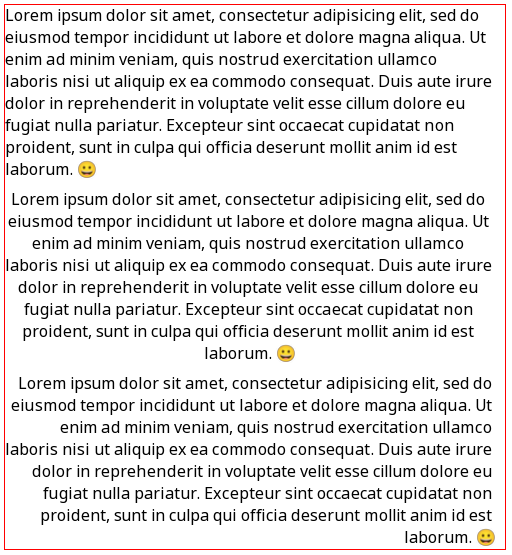
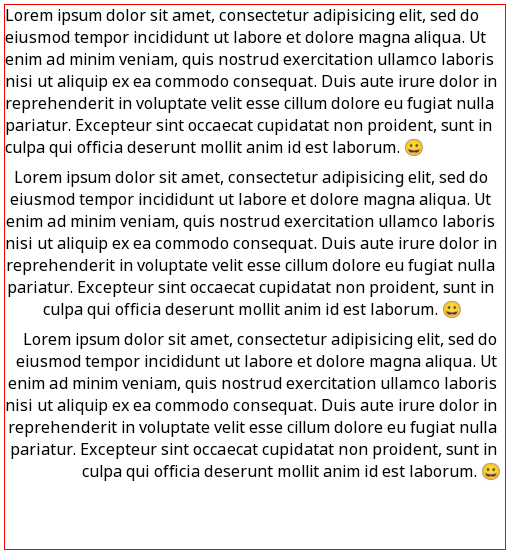
Implemented soft-wrap support in TextLayout. Also fixed an old LineWrap::computeLineBreaks bug that wrapped too soon some texts, I had to update the tests (they where looking strange but I thought it was some unfortunate wrapping).

Changed region(s): [[0.0, 0.0919, 1.0, 1.0]]

diff --git a/src/eepp/graphics/textlayout.cpp b/src/eepp/graphics/textlayout.cpp
@@ -218,25 +218,30 @@ static void shapeAndRun( TextLayout& result, const String& string, FontTrueType*
 
 #endif
 
-template <typename StringType>
-static inline Uint64 textLayoutHash( const StringType& string, Font* font,
+static inline Uint64 textLayoutHash( const String::View& string, Font* font,
 									 const Uint32& characterSize, const Uint32& style,
 									 const Uint32& tabWidth, const Float& outlineThickness,
-									 std::optional<Float> tabOffset, TextDirection direction ) {
-	return hashCombine( std::hash<StringType>()( string ), std::hash<Font*>()( font ),
+									 std::optional<Float> tabOffset, TextDirection direction,
+									 LineWrapMode wrapMode, Uint32 wrapWidth,
+									 bool keepIndentation ) {
+	return hashCombine( std::hash<String::View>()( string ), std::hash<Font*>()( font ),
 						std::hash<Uint32>()( characterSize ), std::hash<Uint32>()( style ),
 						std::hash<Uint32>()( tabWidth ), std::hash<Float>()( outlineThickness ),
 						std::hash<std::optional<Float>>()( tabOffset ),
 						std::hash<std::underlying_type_t<TextDirection>>()(
-							static_cast<std::underlying_type_t<TextDirection>>( direction ) ) );
+							static_cast<std::underlying_type_t<TextDirection>>( direction ) ),
+						std::hash<std::underlying_type_t<LineWrapMode>>()(
+							static_cast<std::underlying_type_t<LineWrapMode>>( wrapMode ) ),
+						std::hash<Uint32>()( wrapWidth ), std::hash<bool>()( keepIndentation ) );
 }
 
-template <typename StringType>
-TextLayout::Cache TextLayout::layout( const StringType& string, Font* font,
+TextLayout::Cache TextLayout::layout( const String::View& string, Font* font,
 									  const Uint32& characterSize, const Uint32& style,
 									  const Uint32& tabWidth, const Float& outlineThickness,
 									  std::optional<Float> tabOffset, Uint32 textDrawHints,
-									  TextDirection baseDirection ) {
+									  TextDirection baseDirection, LineWrapMode wrapMode,
+									  Uint32 wrapWidth, bool keepIndentation,
+									  Float initialXOffset ) {
 	static LRULayoutCache sLayoutCache;
 
 	if ( !font || string.empty() ) {
@@ -249,7 +254,7 @@ TextLayout::Cache TextLayout::layout( const StringType& string, Font* font,
 	Uint64 hash = 0;
 	if ( !Text::canSkipShaping( textDrawHints ) ) {
 		hash = textLayoutHash( string, font, characterSize, style, tabWidth, outlineThickness,
-							   tabOffset, baseDirection );
+							   tabOffset, baseDirection, wrapMode, wrapWidth, keepIndentation );
 
 		auto cacheHit = sLayoutCache.get( hash );
 		if ( cacheHit.has_value() )
@@ -261,7 +266,7 @@ TextLayout::Cache TextLayout::layout( const StringType& string, Font* font,
 	Uint32 spaceGlyphIndex = 0;
 	Float hspace = font->getGlyph( ' ', characterSize, bold, italic, outlineThickness ).advance;
 	Float vspace = font->getLineSpacing( characterSize );
-	Vector2f pen;
+	Vector2f pen{ initialXOffset, 0 };
 	Float maxWidth = 0;
 
 	auto resultPtr = std::make_shared<TextLayout>();
@@ -494,6 +499,14 @@ TextLayout::Cache TextLayout::layout( const StringType& string, Font* font,
 	result.size = { maxWidth, std::ceil( pen.y ) };
 	result.hasMixedDirection = !!gdc.ltr + !!gdc.rtl + !!gdc.ttb + !!gdc.btt + !!gdc.other > 1;
 
+	if ( wrapMode != LineWrapMode::NoWrap && wrapWidth ) {
+		wrapLayout( string, result, wrapMode, wrapWidth, vspace, keepIndentation, font,
+					characterSize, style, tabWidth, outlineThickness, hspace );
+	} else {
+		for ( auto& sp : result.paragraphs )
+			sp.wrapInfo.wraps.push_back( 0 );
+	}
+
 	sLayoutCache.put( hash, resultPtr );
 	return resultPtr;
 }
@@ -501,19 +514,12 @@ TextLayout::Cache TextLayout::layout( const StringType& string, Font* font,
 TextLayout::Cache TextLayout::layout( const String& string, Font* font, const Uint32& fontSize,
 									  const Uint32& style, const Uint32& tabWidth,
 									  const Float& outlineThickness, std::optional<Float> tabOffset,
-									  Uint32 textDrawHints, TextDirection baseDirection ) {
-	return TextLayout::layout<String>( string, font, fontSize, style, tabWidth, outlineThickness,
-									   tabOffset, textDrawHints, baseDirection );
-}
-
-TextLayout::Cache TextLayout::layout( const String::View& string, Font* font,
-									  const Uint32& fontSize, const Uint32& style,
-									  const Uint32& tabWidth, const Float& outlineThickness,
-									  std::optional<Float> tabOffset, Uint32 textDrawHints,
-									  TextDirection baseDirection ) {
-	return TextLayout::layout<String::View>( string, font, fontSize, style, tabWidth,
-											 outlineThickness, tabOffset, textDrawHints,
-											 baseDirection );
+									  Uint32 textDrawHints, TextDirection baseDirection,
+									  LineWrapMode wrapMode, Uint32 wrapWidth, bool keepIndentation,
+									  Float initialXOffset ) {
+	return TextLayout::layout( string.view(), font, fontSize, style, tabWidth, outlineThickness,
+							   tabOffset, textDrawHints, baseDirection, wrapMode, wrapWidth,
+							   keepIndentation, initialXOffset );
 }
 
 std::vector<Float> TextLayout::getLinesWidth() const {
@@ -522,6 +528,74 @@ std::vector<Float> TextLayout::getLinesWidth() const {
 	for ( const auto& sp : paragraphs )
 		lw.push_back( sp.size.x );
 	return lw;
+}
+
+void TextLayout::wrapLayout( const String::View& string, TextLayout& result,
+							 LineWrapMode lineWrapMode, Float wrapWidth, Float vspace,
+							 bool keepIndentation, Font* font, const Uint32& characterSize,
+							 const Uint32& fontStyle, const Uint32& tabWidth,
+							 const Float& outlineThickness, Float hspace ) {
+	std::size_t paragraphCount = result.paragraphs.size();
+
+	if ( paragraphCount )
+		result.paragraphs[0].wrapInfo.wraps.push_back( 0 );
+
+	for ( std::size_t paragraphIdx = 0; paragraphIdx < paragraphCount; paragraphIdx++ ) {
+		ShapedTextParagraph& sp = result.paragraphs[paragraphIdx];
+		std::size_t shapedGlyphCount = sp.shapedGlyphs.size();
+		std::size_t lastSpace = std::string::npos;
+		Vector2f currentOffset( 0.f, 0.f );
+		Sizef maxSize{ 0, vspace };
+
+		if ( keepIndentation && shapedGlyphCount ) {
+			sp.wrapInfo.paddingStart = LineWrap::computeOffsets(
+				string.substr( sp.shapedGlyphs[0].stringIndex ), font, characterSize, fontStyle,
+				outlineThickness, tabWidth, eemax( wrapWidth - hspace, hspace ) );
+		}
+
+		for ( std::size_t idx = 0; idx < shapedGlyphCount; idx++ ) {
+			ShapedGlyph& sg = sp.shapedGlyphs[idx];
+			auto curChar = string[sg.stringIndex];
+
+			sg.position += currentOffset;
+
+			if ( sg.position.x + sg.advance.x > wrapWidth ) {
+				std::size_t breakIndex = idx;
+				bool performWordWrap =
+					( lineWrapMode == LineWrapMode::Word && lastSpace != std::string::npos );
+
+				ShapedGlyph& prevBreakGlyph = sp.shapedGlyphs[lastSpace];
+				maxSize.x =
+					std::max( prevBreakGlyph.position.x + prevBreakGlyph.advance.x, maxSize.x );
+
+				// Break after the last space (start of the current word)
+				if ( performWordWrap )
+					breakIndex = lastSpace + 1;
+
+				if ( breakIndex > idx )
+					breakIndex = idx;
+
+				sp.wrapInfo.wraps.push_back( breakIndex );
+
+				ShapedGlyph& breakGlyph = sp.shapedGlyphs[breakIndex];
+				Vector2f adjustment( -breakGlyph.position.x + sp.wrapInfo.paddingStart, vspace );
+
+				for ( std::size_t k = breakIndex; k <= idx; ++k )
+					sp.shapedGlyphs[k].position += adjustment;
+
+				maxSize.y = std::max( breakGlyph.position.y + vspace, maxSize.y );
+
+				currentOffset += adjustment;
+				lastSpace = std::string::npos;
+			} else if ( LineWrap::isWrapChar( curChar ) ) {
+				lastSpace = idx;
+			}
+		}
+
+		sp.size = maxSize;
+	}
+
+	result.size = result.paragraphs[result.paragraphs.size() - 1].size;
 }
 
 } // namespace EE::Graphics

diff --git a/src/tests/unit_tests/fontrendering.cpp b/src/tests/unit_tests/fontrendering.cpp
@@ -1,10 +1,12 @@
 #include "utest.hpp"
 
+#include <eepp/graphics/batchrenderer.hpp>
 #include <eepp/graphics/fontbmfont.hpp>
 #include <eepp/graphics/fontfamily.hpp>
 #include <eepp/graphics/fontmanager.hpp>
 #include <eepp/graphics/fontsprite.hpp>
 #include <eepp/graphics/fonttruetype.hpp>
+#include <eepp/graphics/globalbatchrenderer.hpp>
 #include <eepp/graphics/image.hpp>
 #include <eepp/graphics/primitives.hpp>
 #include <eepp/graphics/renderer/renderergl.hpp>
@@ -865,6 +867,86 @@ UTEST( FontRendering, TextWrap ) {
 		text.draw( pos.x, pos.y );
 
 		compareImages( utest_state, utest_result, app.getWindow(), "eepp-text-wrap" );
+	};
+
+	UTEST_PRINT_STEP( "Text Shaper disabled" );
+	{
+		BoolScopedOp op( Text::TextShaperEnabled, false );
+		runTest();
+	}
+
+	UTEST_PRINT_STEP( "Text Shaper enabled" );
+	{
+		BoolScopedOp op( Text::TextShaperEnabled, true );
+		runTest();
+
+		UTEST_PRINT_STEP( "Text Shaper enabled w/o optimizations" );
+		BoolScopedOp op2( Text::TextShaperOptimizations, false );
+		runTest();
+	}
+}
+
+UTEST( FontRendering, TextLayoutWrap ) {
+	FileSystem::changeWorkingDirectory( Sys::getProcessPath() );
+	std::string loremIpsum;
+	FileSystem::fileGet( "assets/textfiles/lorem-ipsum.uext", loremIpsum );
+
+	const auto runTest = [&]() {
+		UIApplication app(
+			WindowSettings( 512, 555, "eepp - Text Layout Wrap", WindowStyle::Default,
+							WindowBackend::Default, 32, {}, 1, false, true ),
+			UIApplication::Settings( Sys::getProcessPath() + ".." + FileSystem::getOSSlash(), 1 ) );
+		FileSystem::changeWorkingDirectory( Sys::getProcessPath() );
+
+		BatchRenderer* BR = GlobalBatchRenderer::instance();
+		auto drawGlyph = [BR]( GlyphDrawable* gd, const Vector2f& position, const Color& color ) {
+			BR->quadsSetColor( color );
+			BR->quadsSetTexCoord( gd->getSrcRect().Left, gd->getSrcRect().Top,
+								  gd->getSrcRect().Left + gd->getSrcRect().Right,
+								  gd->getSrcRect().Top + gd->getSrcRect().Bottom );
+			BR->batchQuad( position.x + gd->getGlyphOffset().x, position.y + gd->getGlyphOffset().y,
+						   gd->getDestSize().getWidth(), gd->getDestSize().getHeight() );
+		};
+
+		app.getWindow()->setClearColor( RGB( 255, 255, 255 ) );
+		app.getWindow()->clear();
+
+		Vector2f pos{ 5, 5 };
+		Primitives p;
+		p.setColor( Color::Red );
+		p.drawRectangle( Rectf( pos - 1.f, { 1, 546 } ) );
+		p.drawRectangle( Rectf( pos - 1.f, { 501, 1 } ) );
+		p.drawRectangle( Rectf( { pos.x - 1.f, 544 + pos.y }, { 502, 1 } ) );
+		p.drawRectangle( Rectf( { 500 + pos.x, pos.y - 1.f }, { 1, 546 } ) );
+
+		FontTrueType* font =
+			static_cast<FontTrueType*>( app.getUI()->getUIThemeManager()->getDefaultFont() );
+		auto fontSize = 16;
+		Texture* fontTexture = font->getTexture( fontSize );
+		BR->setBlendMode( BlendMode::Alpha() );
+		BR->quadsBegin();
+		BR->setTexture( fontTexture, fontTexture->getCoordinateType() );
+
+		String string( loremIpsum );
+
+		// Remove the emoji since it won't work in this context
+		if ( Font::isEmojiCodePoint( string[string.size() - 1] ) )
+			string.pop_back();
+
+		auto layout = TextLayout::layout( string, font, fontSize, 0, 4, 0, {}, 0,
+										  TextDirection::LeftToRight, LineWrapMode::Word, 500 );
+
+		for ( const auto& sp : layout->paragraphs ) {
+			for ( const auto& sg : sp.shapedGlyphs ) {
+				auto* gd = sg.font->getGlyphDrawableFromGlyphIndex( sg.glyphIndex, fontSize );
+				if ( gd )
+					drawGlyph( gd, pos + sg.position, Color::Black );
+			}
+		}
+
+		BR->draw();
+
+		compareImages( utest_state, utest_result, app.getWindow(), "eepp-text-layout-wrap" );
 	};
 
 	UTEST_PRINT_STEP( "Text Shaper disabled" );

diff --git a/include/eepp/graphics/textlayout.hpp b/include/eepp/graphics/textlayout.hpp
@@ -15,6 +15,7 @@ class Font;
 
 struct ShapedTextParagraph {
 	std::vector<ShapedGlyph> shapedGlyphs;
+	LineWrapInfo wrapInfo;
 	Sizef size;
 };
 
@@ -35,21 +36,23 @@ class EE_API TextLayout {
 						 const Uint32& style, const Uint32& tabWidth = 4,
 						 const Float& outlineThickness = 0.f, std::optional<Float> tabOffset = {},
 						 Uint32 textDrawHints = 0,
-						 TextDirection baseDirection = TextDirection::LeftToRight );
+						 TextDirection baseDirection = TextDirection::LeftToRight,
+						 LineWrapMode lineWrapMode = LineWrapMode::NoWrap, Uint32 wrapWidth = 0,
+						 bool keepIndentation = false, Float initialXOffset = 0 );
 
 	static Cache layout( const String::View& string, Font* font, const Uint32& fontSize,
 						 const Uint32& style, const Uint32& tabWidth = 4,
 						 const Float& outlineThickness = 0.f, std::optional<Float> tabOffset = {},
 						 Uint32 textDrawHints = 0,
-						 TextDirection baseDirection = TextDirection::LeftToRight );
+						 TextDirection baseDirection = TextDirection::LeftToRight,
+						 LineWrapMode lineWrapMode = LineWrapMode::NoWrap, Uint32 wrapWidth = 0,
+						 bool keepIndentation = false, Float initialXOffset = 0 );
 
   protected:
-	template <typename StringType>
-	static Cache layout( const StringType& string, Font* font, const Uint32& fontSize,
-						 const Uint32& style, const Uint32& tabWidth = 4,
-						 const Float& outlineThickness = 0.f, std::optional<Float> tabOffset = {},
-						 Uint32 textDrawHints = 0,
-						 TextDirection baseDirection = TextDirection::LeftToRight );
+	static void wrapLayout( const String::View& string, TextLayout&, LineWrapMode lineWrapMode,
+							Float wrapWidth, Float vspace, bool keepIndentation, Font* font,
+							const Uint32& characterSize, const Uint32& fontStyle,
+							const Uint32& tabWidth, const Float& outlineThickness, Float hspace );
 };
 
 } // namespace EE::Graphics

diff --git a/src/eepp/graphics/linewrap.cpp b/src/eepp/graphics/linewrap.cpp
@@ -73,8 +73,31 @@ LineWrapInfo LineWrap::computeLineBreaks( const String::View& string, Font* font
 										  Float initialXOffset ) {
 	LineWrapInfo info;
 	info.wraps.push_back( 0 );
-	if ( string.empty() || nullptr == font || mode == LineWrapMode::NoWrap )
+
+	if ( string.empty() || nullptr == font || mode == LineWrapMode::NoWrap || maxWidth == 0 )
 		return info;
+
+#ifdef EE_TEXT_SHAPER_ENABLED
+	if ( Text::TextShaperEnabled && font->getType() == FontType::TTF &&
+		 !Text::canSkipShaping( textDrawHints ) ) {
+		auto layout = TextLayout::layout(
+			string, font, characterSize, fontStyle, tabWidth, outlineThickness,
+			tabStops ? initialXOffset : std::optional<Float>{}, textDrawHints,
+			TextDirection::LeftToRight, mode, maxWidth, keepIndentation, initialXOffset );
+		LineWrapInfo info;
+		if ( layout->paragraphs.empty() )
+			return info;
+
+		info.paddingStart = layout->paragraphs.front().wrapInfo.paddingStart;
+
+		for ( auto& paragraph : layout->paragraphs ) {
+			for ( const auto& wrap : paragraph.wrapInfo.wraps )
+				info.wraps.push_back( wrap );
+		}
+
+		return info;
+	}
+#endif
 
 	bool bold = ( fontStyle & Text::Style::Bold ) != 0;
 	bool italic = ( fontStyle & Text::Style::Italic ) != 0;
@@ -129,10 +152,10 @@ LineWrapInfo LineWrap::computeLineBreaks( const String::View& string, Font* font
 		if ( xoffset > maxWidth ) {
 			if ( mode == LineWrapMode::Word && lastSpace ) {
 				info.wraps.push_back( lastSpace + 1 );
-				xoffset = w + info.paddingStart + ( xoffset - lastWidth );
+				xoffset = info.paddingStart + ( xoffset - lastWidth );
 			} else {
 				info.wraps.push_back( idx );
-				xoffset = w + info.paddingStart;
+				xoffset = info.paddingStart;
 			}
 			lastSpace = 0;
 		} else if ( isWrapChar( curChar ) ) {
